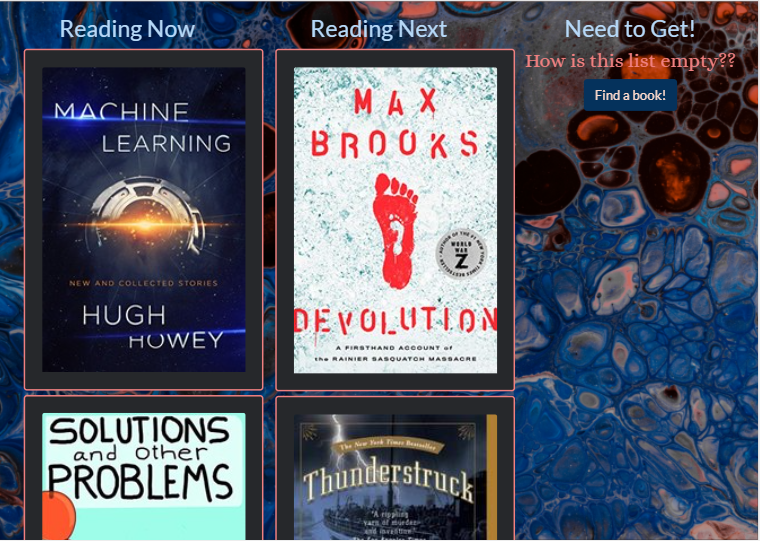
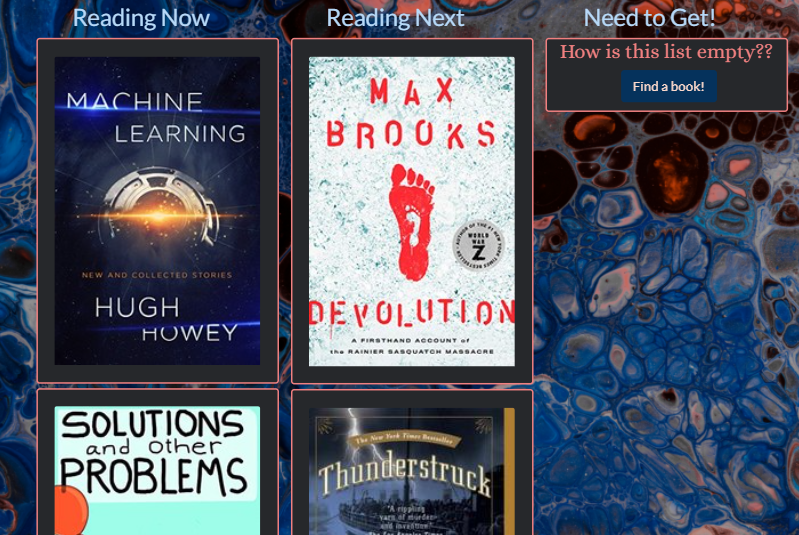
Ok, surely done now with home

diff --git a/ClientApp/src/app/home/home.component.html b/ClientApp/src/app/home/home.component.html
@@ -14,7 +14,7 @@
       <img src="\assets\EditScreenshotCrop.png" alt="screenshot of edit view" class="col screenshot">
     </div>
     <div class="row align-items-center">
-      <img src="\assets\CatalogScreenshotCrop.png" alt="screenshot of catalog view" class="col screenshot">
+      <img src="\assets\CatalogScreenshot.png" alt="screenshot of catalog view" class="col screenshot">
       <div class="col">
         <h3>View your books as a collection...</h3>
         <p>If you need an image to refresh your memory, or you just like looking at your books :)</p>
@@ -62,9 +62,9 @@
             </div>
           </div>
         </div>
-        <div class="text-center" *ngIf="reading.length===0">
+        <div class="card text-center" *ngIf="reading.length===0">
           <h4>Not reading anything right now?</h4>
-          <button class="btn btn-ok" [routerLink]="['/newbook']">Add a book!</button>
+          <button class="btn-faux btn btn-ok" [routerLink]="['/newbook']">Add a book!</button>
         </div>
       </div>
 
@@ -86,9 +86,9 @@
             </div>
           </div>
         </div>
-        <div class="text-center" *ngIf="read.length===0">
+        <div class="card text-center" *ngIf="read.length===0">
           <h4>Need something to read next?</h4>
-          <button class="btn btn-ok" [routerLink]="['/newbook']">Add a book!</button>
+          <button class="btn-faux btn btn-ok" [routerLink]="['/newbook']">Add a book!</button>
         </div>
       </div>
 
@@ -110,9 +110,9 @@
             </div>
           </div>
         </div>
-        <div class="text-center" *ngIf="get.length===0">
+        <div class="card text-center" *ngIf="get.length===0">
           <h4>How is this list empty??</h4>
-          <a class="btn btn-ok" [href]="'https://recommendmeabook.com/'" target="_blank">Find a book!</a>
+          <a class="btn-faux btn btn-ok" [href]="'https://recommendmeabook.com/'" target="_blank">Find a book!</a>
         </div>
       </div>
     </div>

diff --git a/ClientApp/src/styles.css b/ClientApp/src/styles.css
@@ -40,6 +40,11 @@ a:hover{
   border: #ffdbcd solid 1px;
 }
 
+.btn-faux {
+  width: 40%;
+  margin-left: 31%;
+}
+
 html, body { height: 100%; }
 
 body {
@@ -77,11 +82,10 @@ footer {
 
 .card {
   background-color: #26282b;
-  /* background-image: url("../src/assets/bookEndsheet.jpg"); */
   background-size: cover;
   border: 2px solid #f08080;
   width: 100%;
-  height: 97%;
+  height: 5.5%;
   color: #ffdbcd;
   font-family: 'Alice', serif;
 }

diff --git a/ClientApp/src/app/book/book.component.css b/ClientApp/src/app/book/book.component.css
@@ -1,7 +1,7 @@
 .card{
-    width: 18rem; 
+    /* width: 18rem;  */
     margin-top:2%;
-
+    height: 97%;
 }
 
 img {
